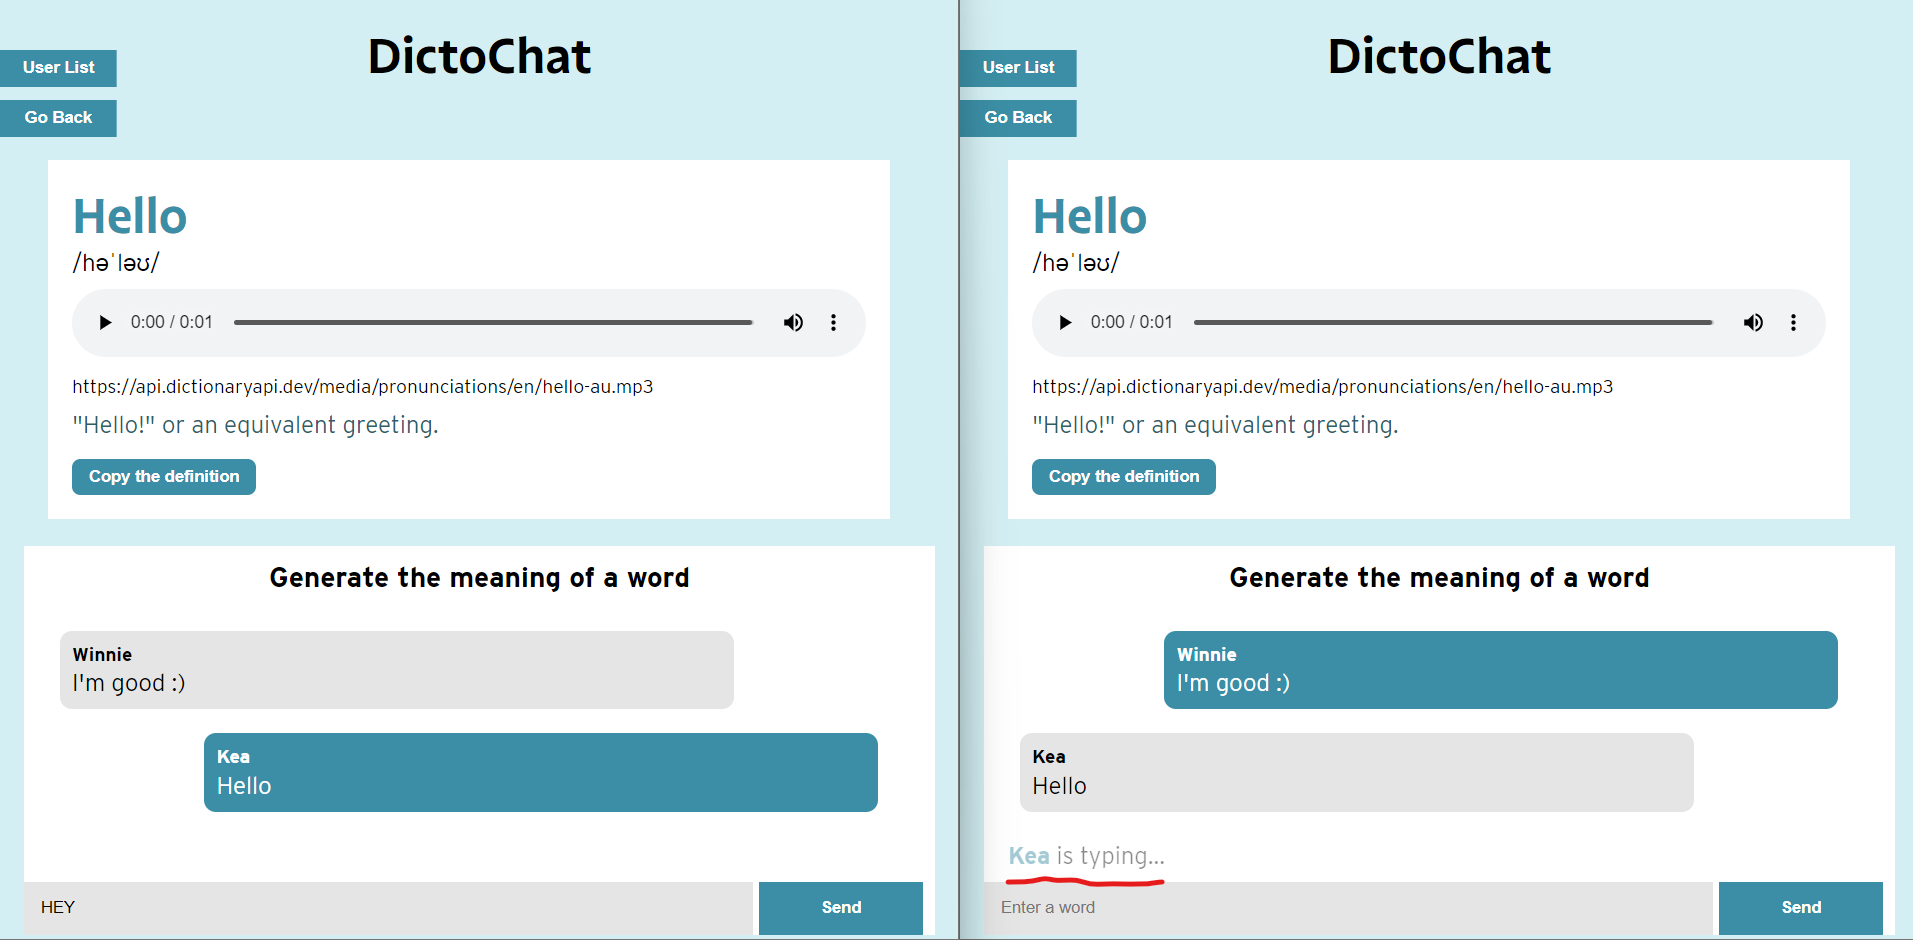
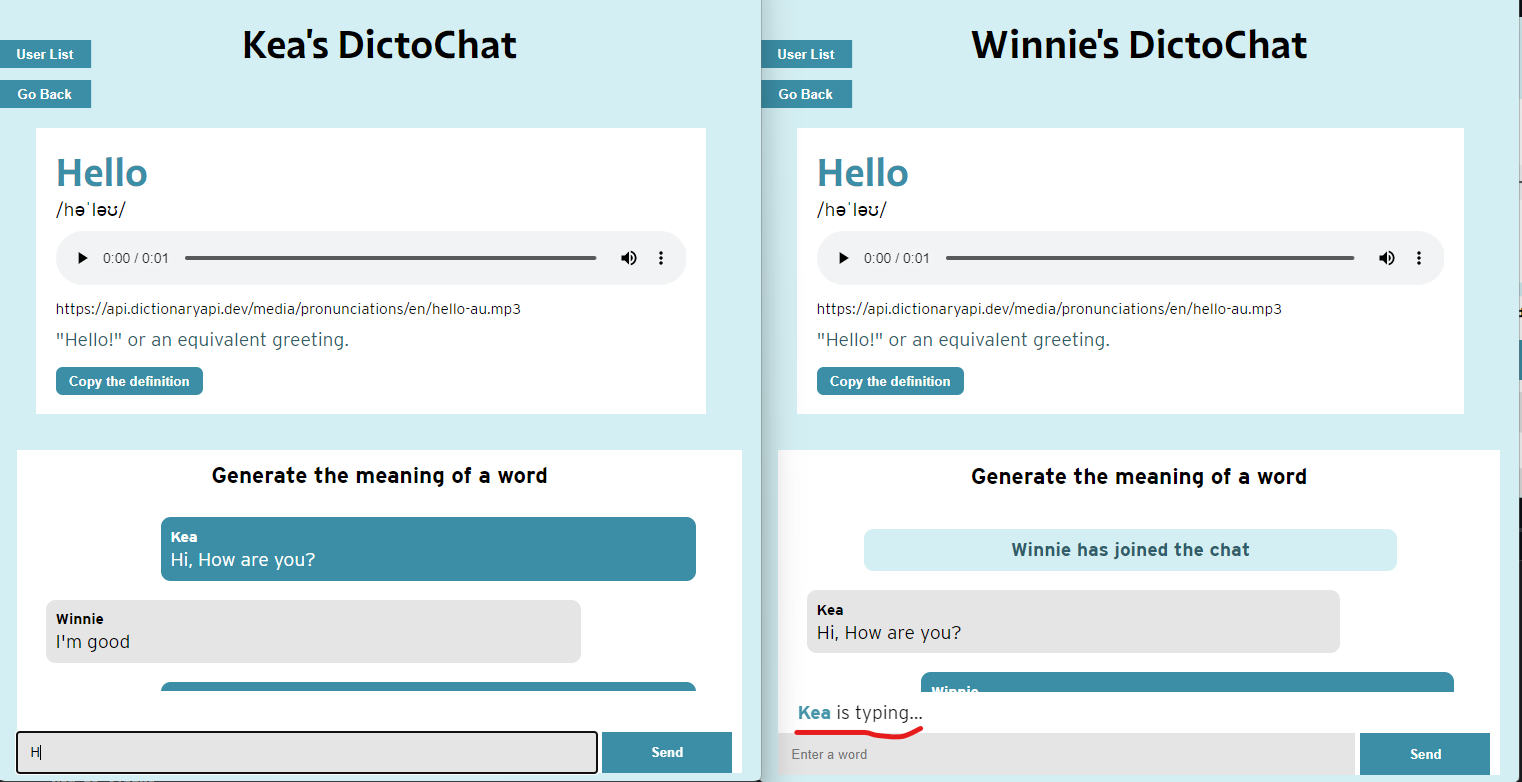
updat readme

diff --git a/public/scripts/script.js b/public/scripts/script.js
@@ -18,6 +18,7 @@ const usernameForm = document.querySelector('.username-form');
 const userList = document.querySelector('#user-online');
 const usernameInput = document.querySelector('#username-input');
 const userListButton = document.querySelector('.user-btn');
+const displayedUsername = document.querySelector('.displayed-username');
 
 const loader = document.querySelector('.loader');
 let currentUser;
@@ -57,6 +58,7 @@ createUserBtn.addEventListener('click', (e) => {
             loader.classList.remove('loader-screen');
         }, 2000);
         
+        displayedUsername.innerHTML = `${username}'s ` + '';
     }
 
     console.log('New user created')

diff --git a/public/styles/style.css b/public/styles/style.css
@@ -504,6 +504,10 @@ animation: knippereffect 1.2s linear infinite;
 
     }
 
+        .user-btn {
+            cursor: default;
+        }
+
     #chat-messages {
         height: 80%;
     }

diff --git a/README.md b/README.md
@@ -9,6 +9,11 @@ Ik heb mijn applicatie gehost op adaptable and railway. Maar railway is stabiele
 - Railway: https://real-time-web-2223-production-287b.up.railway.app/
 - Adaptable: https://realtime-webapp.adaptable.app/
 
+
+## Dictionary generator chat - DictoChat
+Dictionary generator chat oftewel DictoChat is een chat  waarbij  een groep mensen samen een  betekenis van het woord in een group chat genereert. Dus iedereen kan een woord intypen en ze krijgen op basis daarvan verschillende informatie over het woord zoals bij een woordenboek. Soort informatie die je kan zien zijn: hoe je het woord uitspraak, het definitie, en de spelling. 
+
+![Chat Functionality](readme-images/chatting-functionality.png)
 ---
 # Inhoudsopgave
 - [Het Process](#het-process)
@@ -246,6 +251,7 @@ Dictionary generator chat oftewel DictoChat is een chat  waarbij  een groep mens
 ## Would have but not right now
 - [ ] Een melding die aangeeft dat er geen informatie kunnen vinden van het woord.
 - [ ] Aangeven hoelaat de berichten zijn gestuurd.
+- [ ] Eigen gegenereerde gebruiker wordt opvallender dan de rest. Dan kunnen ze zie van wie wat is.
 
 ## Technieken
 - [x] De gebruikersnaam pagina verbergen wanneer de gebruiker op de button klikt
